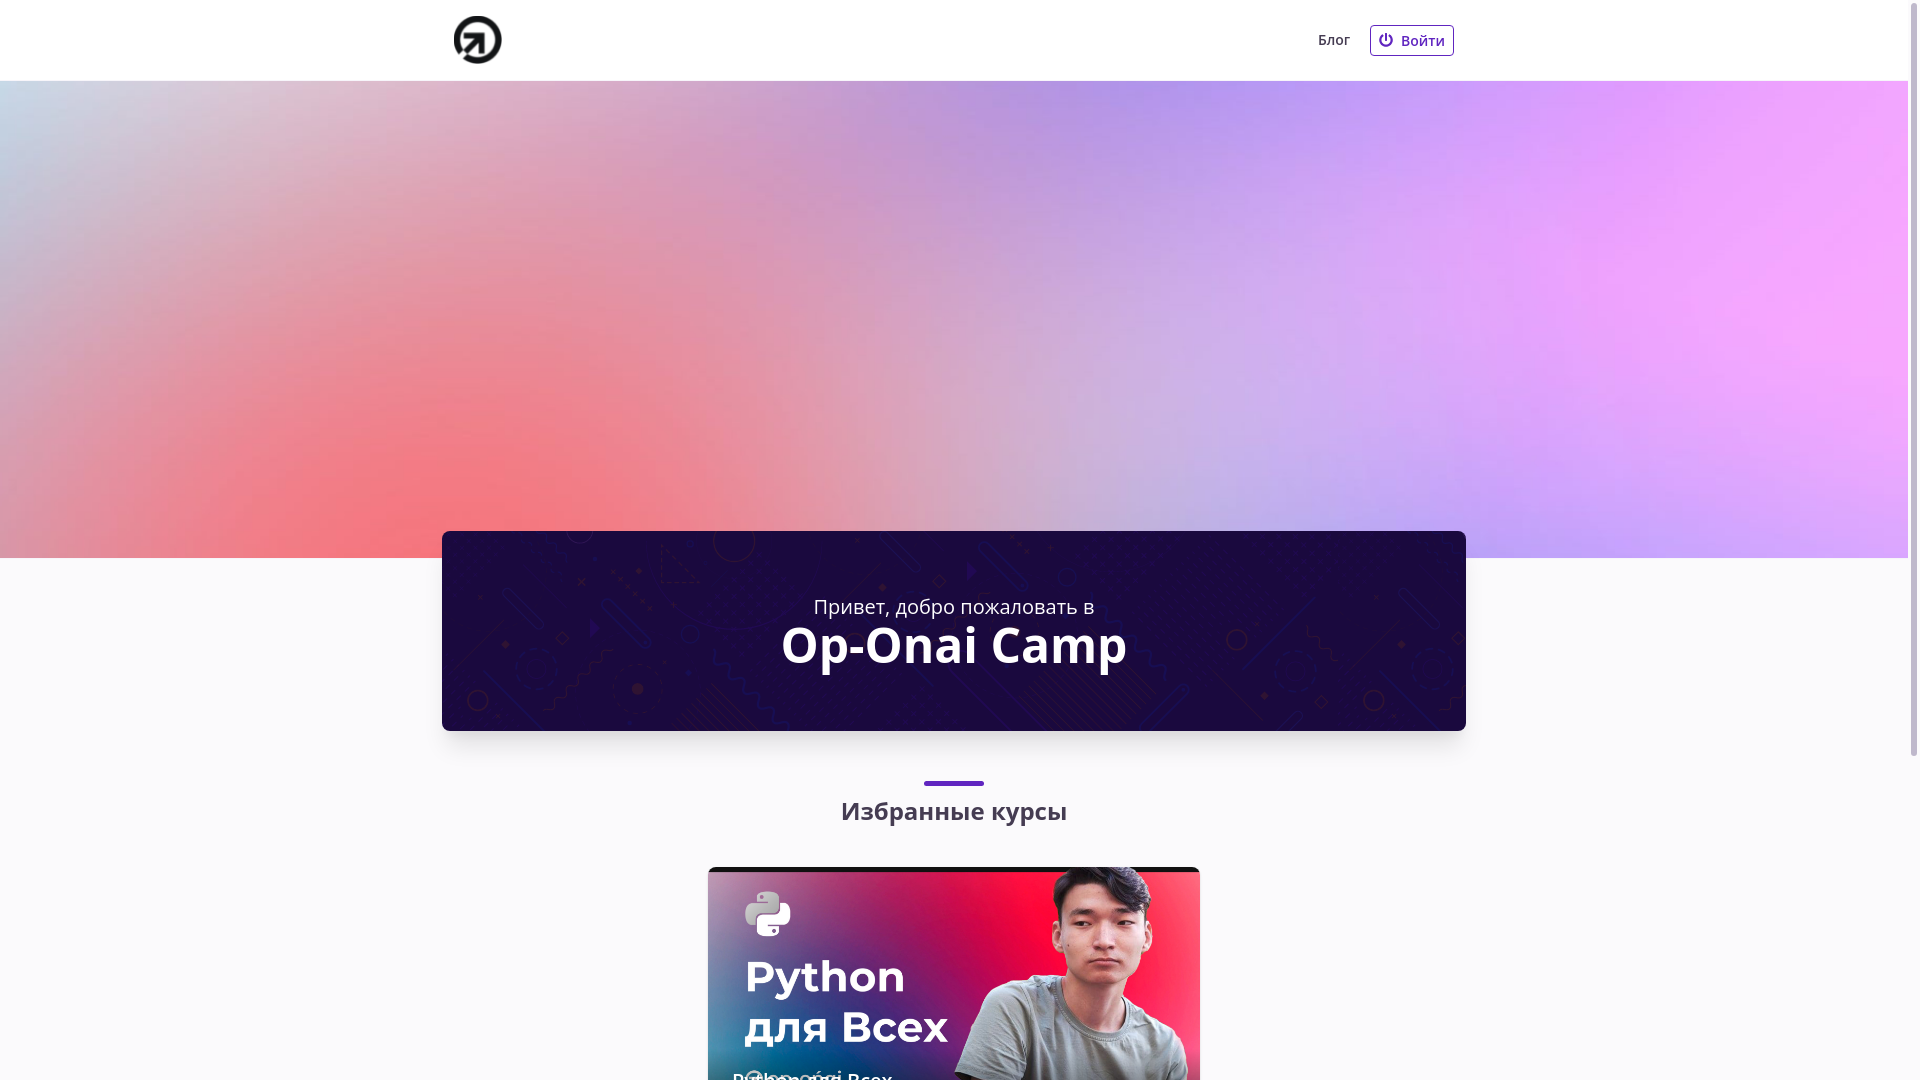
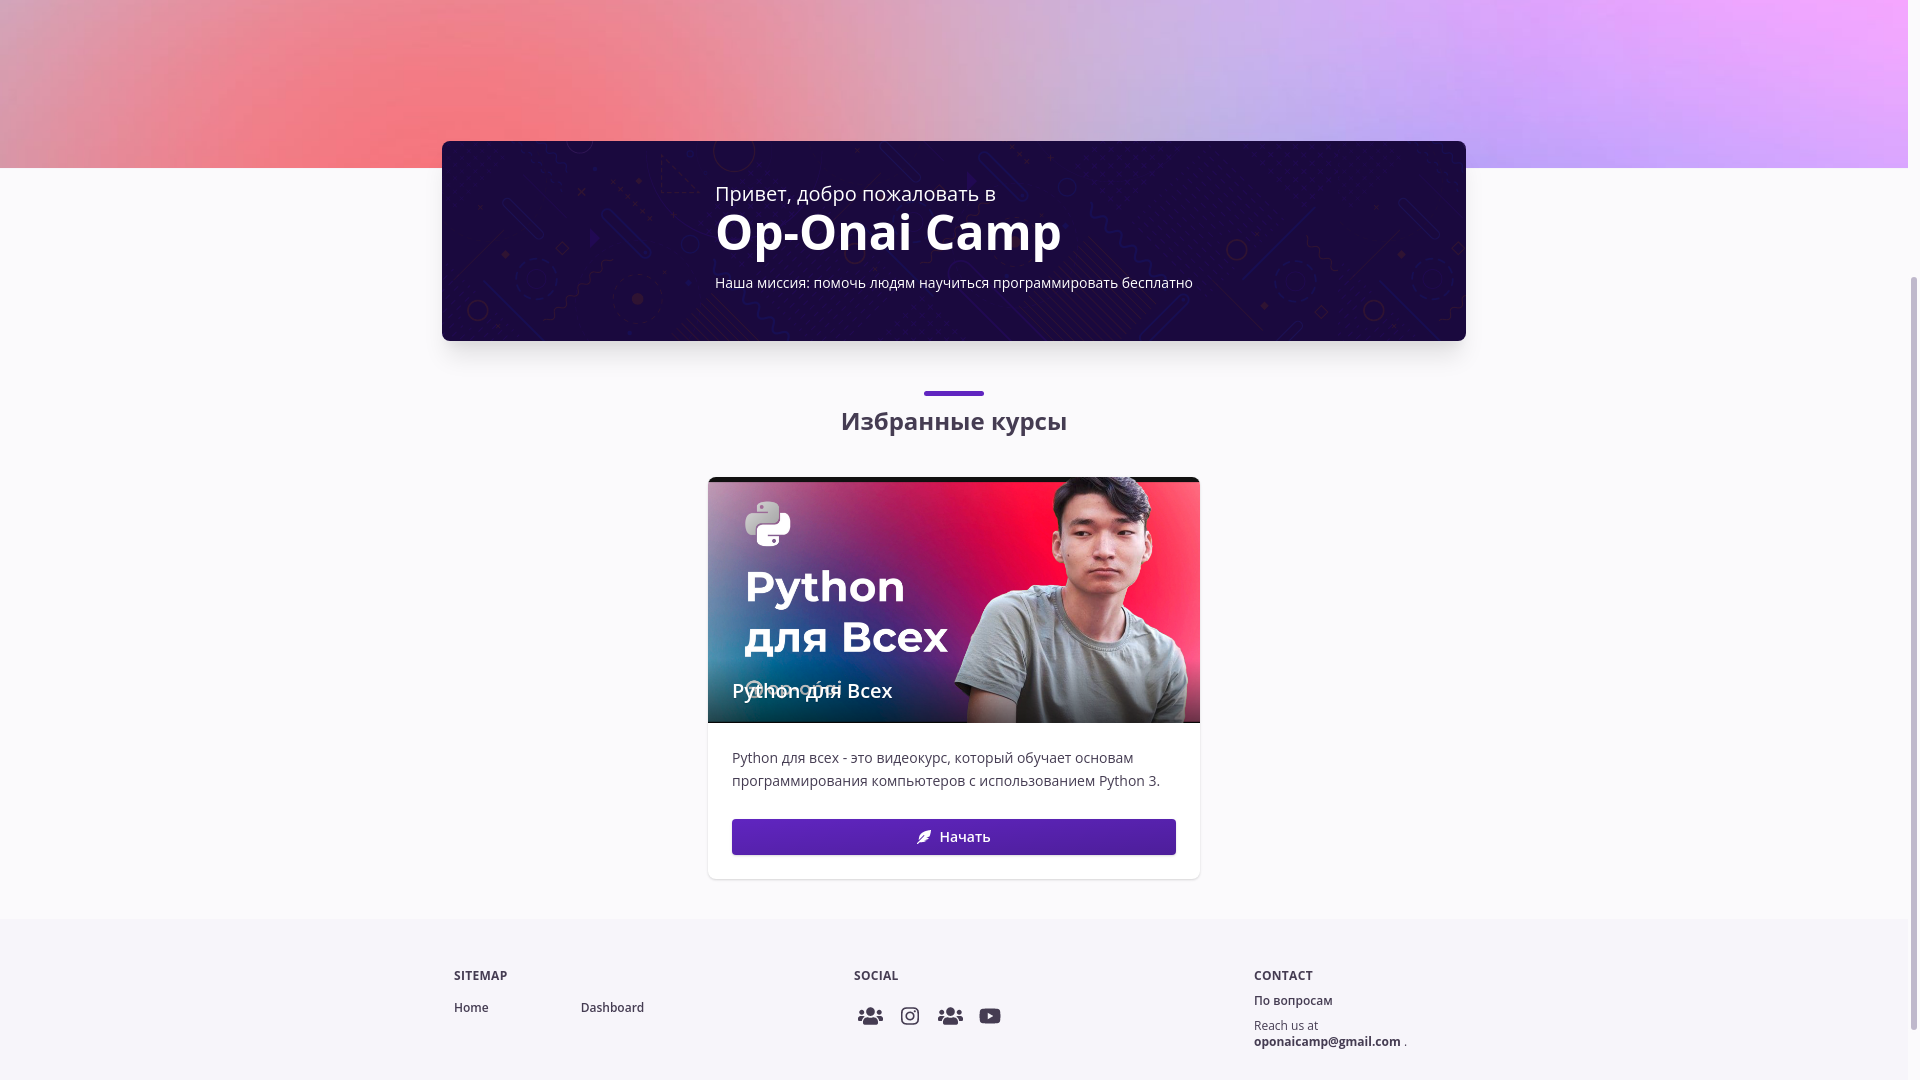
improved front

diff --git a/pages/index.js b/pages/index.js
@@ -4,6 +4,7 @@ import Tag from '@/components/Tag'
 import siteMetadata from '@/data/siteMetadata'
 import { getAllFilesFrontMatter } from '@/lib/mdx'
 import formatDate from '@/lib/utils/formatDate'
+// import Image from 'next/image'
 
 import NewsletterForm from '@/components/NewsletterForm'
 
@@ -20,30 +21,93 @@ export default function Home({ posts }) {
     <>
       <PageSEO title={siteMetadata.title} description={siteMetadata.description} />
       <div className="space-y-2 pt-6 pb-8 md:space-y-5">
-        <h1 className="text-3xl font-extrabold leading-9 tracking-tight text-gray-900 dark:text-gray-100 sm:text-4xl sm:leading-10 md:text-6xl md:leading-14">
-          Научись программировать. Бесплатно.
+        <h1 className="text-3xl font-bold leading-9 tracking-tight text-gray-900 dark:text-gray-100 sm:text-4xl sm:leading-10 md:text-6xl md:leading-14">
+          Научись программировать.{' '}
+          <span className="underline decoration-primary-500">Бесплатно</span>.
         </h1>
-        <h2 className="text-3xl font-extrabold leading-9 tracking-tight text-gray-900 dark:text-gray-100 sm:text-4xl sm:leading-10 md:text-6xl md:leading-14">
+        <h2 className="text-3xl font-bold leading-9 tracking-tight text-gray-900 dark:text-gray-100 sm:text-4xl sm:leading-10 md:text-6xl md:leading-14">
           Создавай Проекты.
         </h2>
-        <h2 className="text-3xl font-extrabold leading-9 tracking-tight text-gray-900 dark:text-gray-100 sm:text-4xl sm:leading-10 md:text-6xl md:leading-14">
+        <h2 className="text-3xl font-bold leading-9 tracking-tight text-gray-900 dark:text-gray-100 sm:text-4xl sm:leading-10 md:text-6xl md:leading-14">
           Получай Сертификаты.
         </h2>
         <p className="text-xl leading-7 text-gray-500 dark:text-gray-300">
-          {siteMetadata.description}
+          Онлайн открытые курсы и сообщество о навыках в индустрии IT. Начни свое путешествие в
+          разработке с Op-Onai.
         </p>
-        <div className="mb-10 sm:mb-20">
+        <div className="mb-20 pt-10 sm:mb-20">
           <a
             href="https://edu.op-onai.kz"
-            className="rounded bg-black px-4 py-1 text-sm text-gray-100 ring-offset-indigo-700 transition duration-150 ease-in-out hover:bg-gray-200 focus:outline-none focus:ring-2 focus:ring-white focus:ring-offset-2 dark:bg-white dark:text-gray-900 sm:px-8 sm:py-4 lg:text-xl"
+            className="rounded bg-black px-4 py-1 text-sm font-bold text-gray-100 ring-offset-indigo-700 transition duration-150 ease-in-out hover:bg-gray-200 focus:outline-none focus:ring-2 focus:ring-white focus:ring-offset-2 dark:bg-white dark:text-gray-900 sm:px-8 sm:py-4 lg:text-xl"
           >
             Начать
           </a>
         </div>
       </div>
+      <div className="my-10 my-20 grid place-items-center">
+        <iframe
+          width="90%"
+          height="500px"
+          src="https://www.youtube.com/embed/8jLOx1hD3_o"
+          title="YouTube video player"
+          frameBorder="0"
+          allow="accelerometer; autoplay; clipboard-write; encrypted-media; gyroscope; picture-in-picture"
+          allowFullScreen
+        ></iframe>
+      </div>
+      <div className="my-20">
+        <h2 className="text-2xl font-bold leading-9 tracking-tight text-gray-900 dark:text-gray-100 sm:text-4xl sm:leading-10 md:text-6xl md:leading-14">
+          Курсы: Op-Onai camp
+        </h2>
+        <div className="my-10 grid place-items-center">
+          <img alt="" className="px-10 pt-5" src="/static/images/edu-op-onai.png" />
+        </div>
+        <p className="pb-5 text-xl leading-7 text-gray-500 dark:text-gray-300">
+          100% Беслатные курсы с возможностью получения сертификатов. Смотри, изучай, проходи тесты
+          и создавай проекты.
+        </p>
+      </div>
+      <div className="my-20">
+        <h2 className="text-2xl font-bold leading-9 tracking-tight text-gray-900 dark:text-gray-100 sm:text-4xl sm:leading-10 md:text-6xl md:leading-14">
+          Сообщество: Discord, Форум
+        </h2>
+        <div className="my-10 grid place-items-center">
+          <img alt="" className="px-10 pt-5" src="/static/images/forum-op-onai.png" />
+        </div>
+        <p className="pb-5 text-xl leading-7 text-gray-500 dark:text-gray-300">
+          Задавай вопросы, помогай другим. Находи единомышленников и начинайте проекты вместе.
+        </p>
+      </div>
+      <div className="my-20">
+        <h2 className="text-2xl font-bold leading-9 tracking-tight text-gray-900 dark:text-gray-100 sm:text-4xl sm:leading-10 md:text-6xl md:leading-14">
+          Коллаборации: Agile + Design
+        </h2>
+        <div className="my-10 grid place-items-center">
+          <img alt="" className="px-10 pt-5" src="/static/images/agile-op-onai.png" />
+          <img alt="" className="px-10 pt-5" src="/static/images/design-op-onai.png" />
+        </div>
+        <p className="pb-5 text-xl leading-7 text-gray-500 dark:text-gray-300">
+          Запускай проекты в профессинальной платформе. Создавай цели, составляйте планы и стройте
+          приложения будущего.
+        </p>
+      </div>
+      <div className="my-20">
+        <h2 className="my-10 text-2xl font-bold leading-9 tracking-tight text-gray-900 dark:text-gray-100 sm:text-4xl sm:leading-10 md:text-6xl md:leading-14">
+          Чего ты ждешь? Начни <span className="underline decoration-primary-500">сейчас.</span>
+        </h2>
+        <p className="my-10 pb-5 text-xl leading-7 text-gray-500 dark:text-gray-300">
+          Начать можешь с бесплатных курсов. Заходи в edu.op-onai.kz и открой для себя мир IT.
+        </p>
+        <a
+          href="https://edu.op-onai.kz"
+          className="my-10 rounded bg-black px-4 py-5 text-sm font-bold text-gray-100 ring-offset-indigo-700 transition duration-150 ease-in-out hover:bg-gray-200 focus:outline-none focus:ring-2 focus:ring-white focus:ring-offset-2 dark:bg-white dark:text-gray-900 sm:px-8 sm:py-4 lg:text-xl"
+        >
+          Начать
+        </a>
+      </div>
       <div className="divide-y divide-gray-200 dark:divide-gray-700">
         <div className="space-y-2 pt-6 pb-8 md:space-y-5">
-          <h2 className="text-2xl font-extrabold leading-9 tracking-tight text-gray-900 dark:text-gray-100 sm:text-4xl sm:leading-10 md:text-6xl md:leading-14">
+          <h2 className="text-2xl font-bold leading-9 tracking-tight text-gray-900 dark:text-gray-100 sm:text-4xl sm:leading-10 md:text-6xl md:leading-14">
             Последние Новости
           </h2>
           <p className="text-lg leading-7 text-gray-500 dark:text-gray-400">
